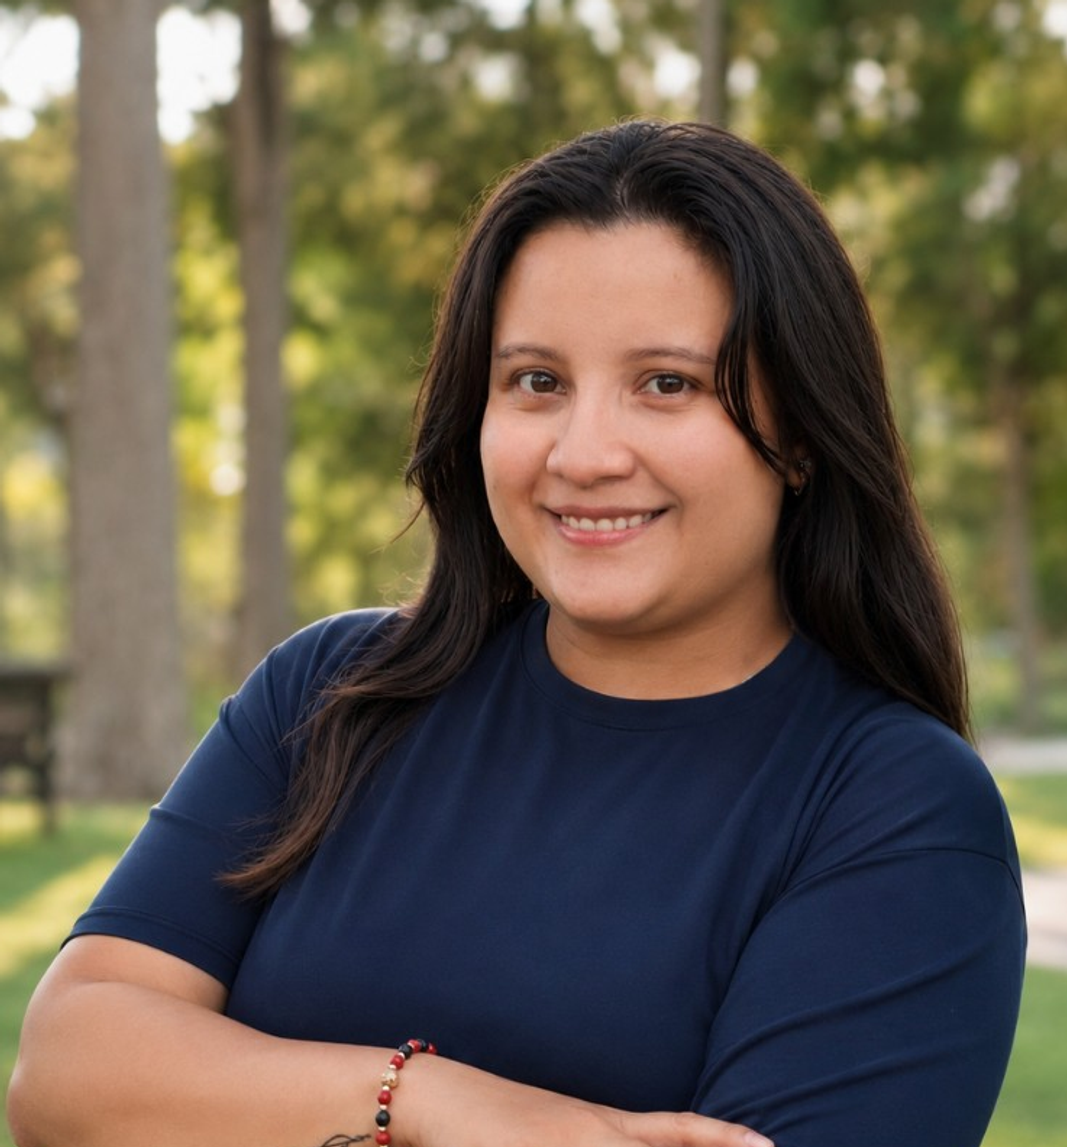
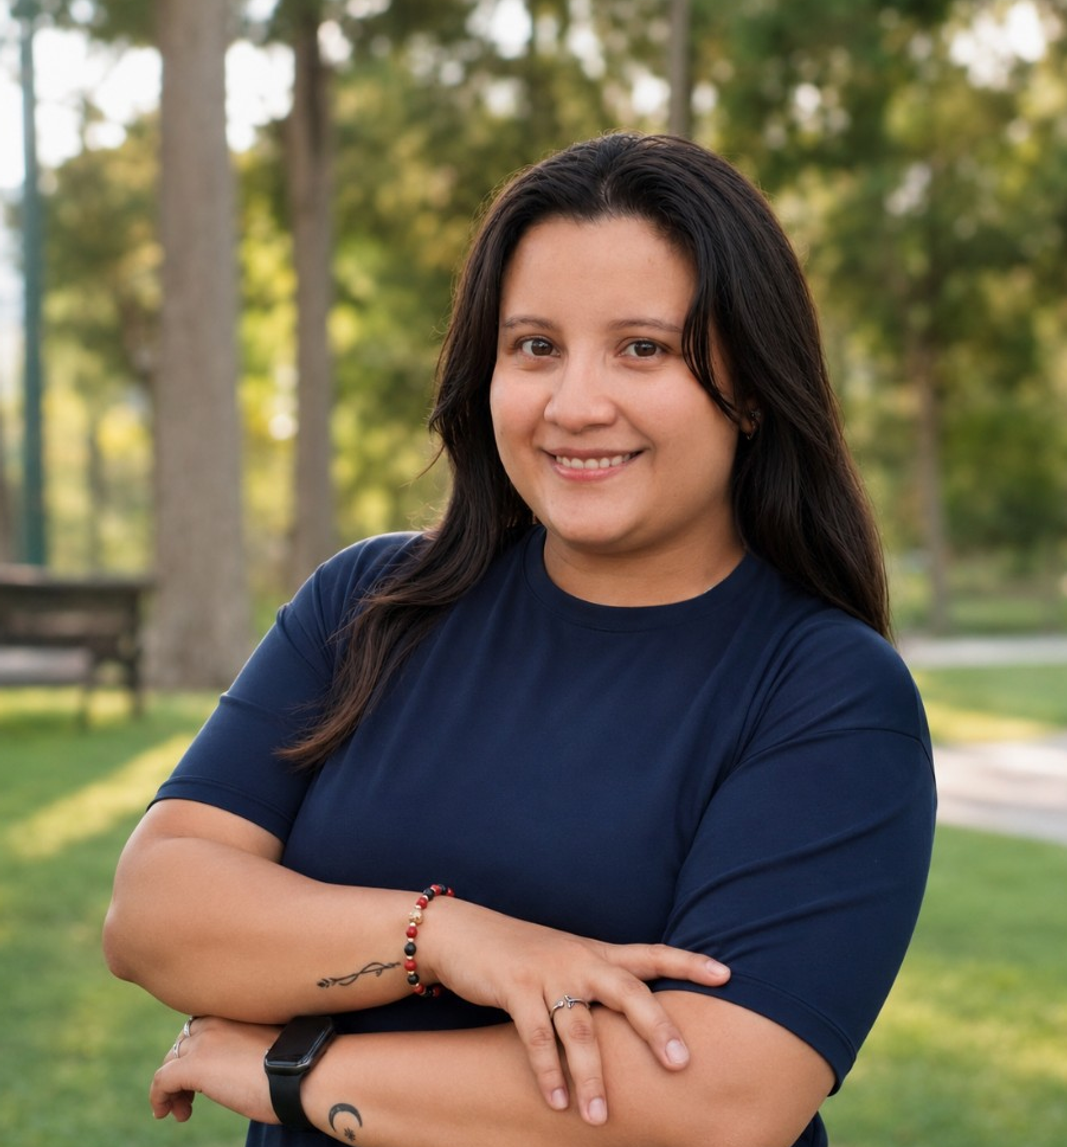
Fix About Me photo framing so production matches local zoom.

diff --git a/src/app/about/page.tsx b/src/app/about/page.tsx
@@ -35,7 +35,7 @@ function ToolList({
     <ul
       className={
         className ??
-        "flex flex-wrap items-center justify-center gap-x-4 gap-y-1.5 md:justify-start"
+        "mt-5 flex flex-wrap items-center justify-center gap-x-4 gap-y-1.5 md:justify-start"
       }
     >
       {tools.map((tool) => (
@@ -68,14 +68,27 @@ export default function AboutPage() {
         <PageIntro title={t.pages.aboutTitle} />
 
         <div className="my-auto px-5 pb-4 pt-2 md:px-8 md:pb-6">
-          <section className="mx-auto grid max-w-4xl gap-6 md:grid-cols-[minmax(0,15rem)_1fr] md:grid-rows-[1fr_auto] md:items-stretch md:gap-x-4 md:gap-y-4 lg:gap-x-5">
-            <div className="relative mx-auto aspect-[4/5] w-[85%] max-w-[17rem] overflow-hidden rounded-lg bg-bg-warm md:row-start-1 md:mx-0 md:aspect-auto md:h-full md:min-h-0 md:w-full md:max-w-none md:justify-self-stretch">
+          <section className="mx-auto grid max-w-4xl gap-6 md:grid-cols-[minmax(0,15rem)_1fr] md:items-stretch md:gap-x-4 md:gap-y-4 lg:gap-x-5">
+            {/* Mobile photo */}
+            <div className="relative mx-auto aspect-[4/5] w-[85%] max-w-[17rem] overflow-hidden rounded-lg bg-bg-warm md:hidden">
               <Image
                 src={ABOUT_IMAGE}
                 alt={t.about.imageAlt}
                 fill
-                sizes="(max-width: 768px) 68vw, 300px"
-                className="object-cover object-top scale-[1.08] origin-bottom"
+                sizes="68vw"
+                className="object-cover object-[center_20%]"
+                priority
+              />
+            </div>
+
+            {/* Desktop photo: stretches to match text + tools height */}
+            <div className="relative hidden min-h-0 overflow-hidden rounded-lg bg-bg-warm md:row-start-1 md:block md:self-stretch">
+              <Image
+                src={ABOUT_IMAGE}
+                alt={t.about.imageAlt}
+                fill
+                sizes="240px"
+                className="object-cover object-[center_18%]"
                 priority
               />
             </div>
@@ -110,9 +123,7 @@ export default function AboutPage() {
                 ))}
               </ul>
 
-              <div className="mt-5 md:hidden">
-                <ToolList tools={tools} />
-              </div>
+              <ToolList tools={tools} />
 
               <div className="mt-6 flex justify-center md:hidden">
                 <Button href="/contact" showArrow>
@@ -121,13 +132,10 @@ export default function AboutPage() {
               </div>
             </div>
 
-            <div className="hidden md:col-start-2 md:row-start-2 md:block md:text-left">
-              <ToolList tools={tools} />
-              <div className="mt-6 flex justify-start">
-                <Button href="/contact" showArrow>
-                  {t.about.cta}
-                </Button>
-              </div>
+            <div className="hidden md:col-start-2 md:row-start-2 md:flex md:justify-start">
+              <Button href="/contact" showArrow>
+                {t.about.cta}
+              </Button>
             </div>
           </section>
         </div>
